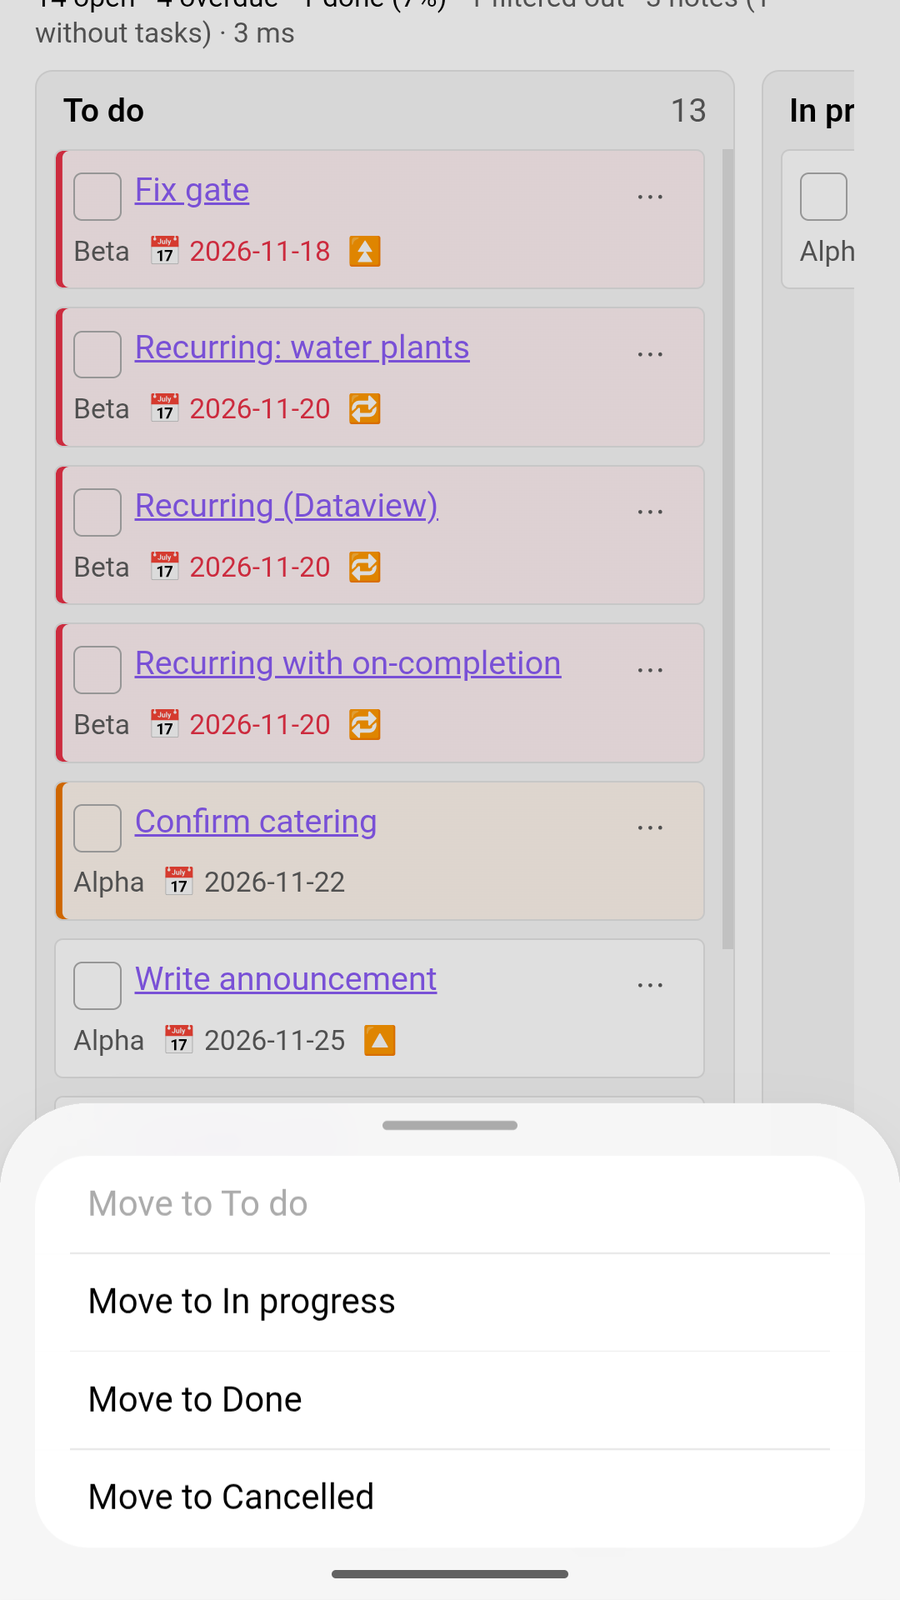
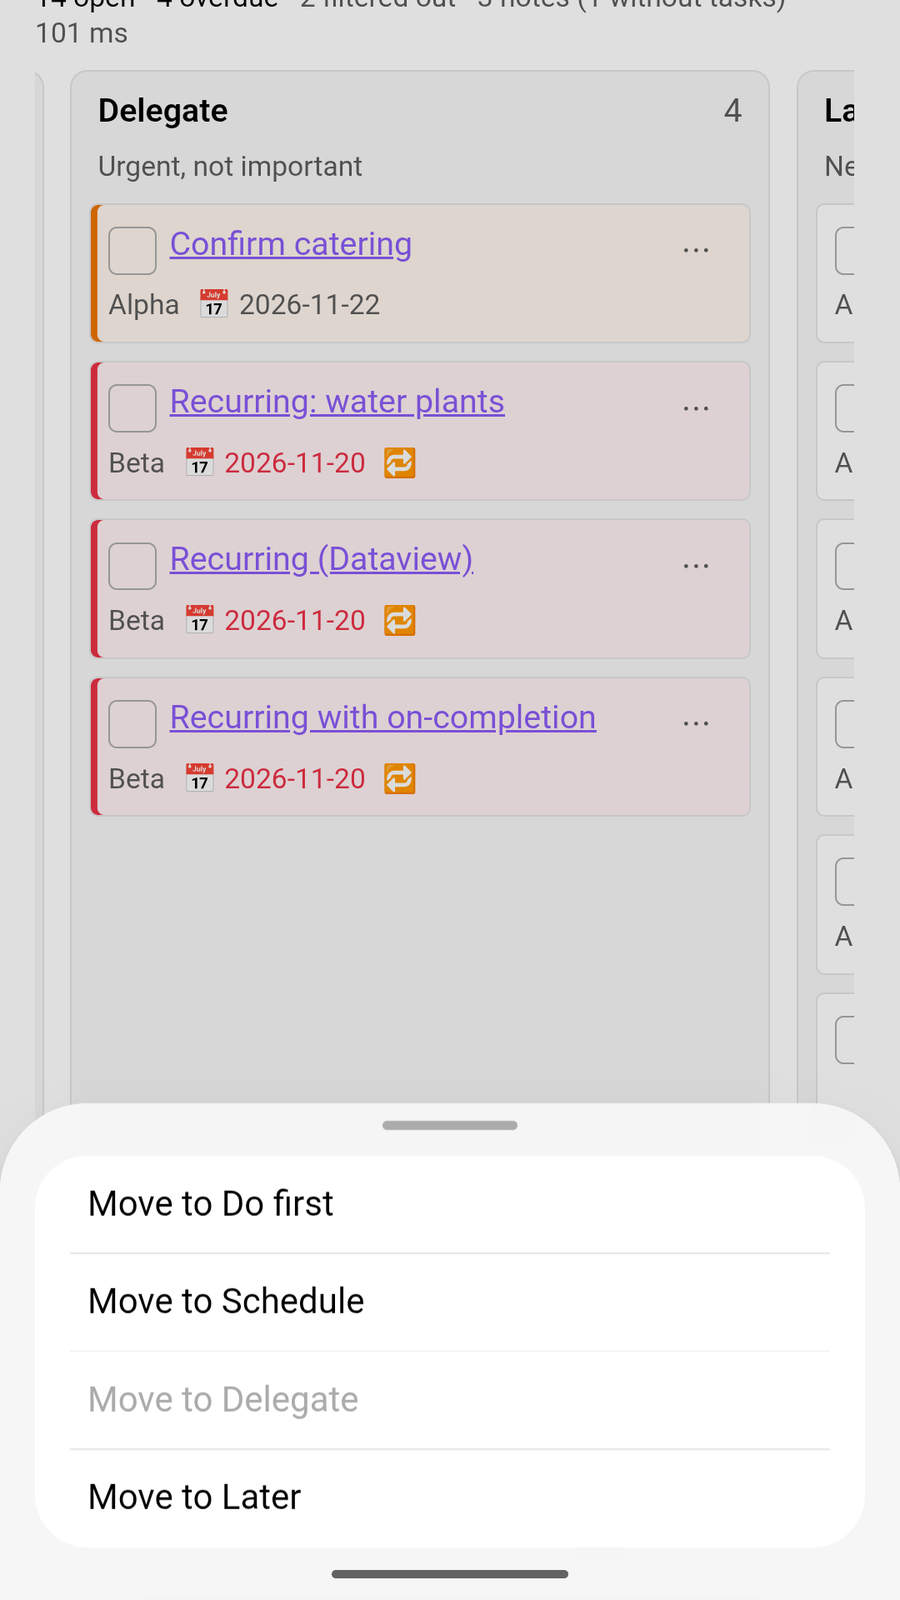
Release 1.5.0: urgent-and-important board and New task base
Version 1.5.0, the README image of the grid board, and the directory's
5 + 5 images: the grid replaces the bulk desktop image (calendar moves to
5), and the phone card-menu image is retaken on the new board.

diff --git a/README.md b/README.md
@@ -1,6 +1,6 @@
 # Tasklines
 
-**Your inline tasks as rows in Obsidian Bases.** Tasklines adds a view to Bases with one row per checkbox task in the notes a base selects, a task board with the same tasks as cards, and a task calendar. Each row carries its note's properties as columns. Filter, sort and group by task or note fields, then tick, edit and add tasks without leaving the view. Your notes stay in the formats you already use: Tasks plugin emoji or Dataview fields.
+**Your inline tasks as rows in Obsidian Bases.** Tasklines adds a view to Bases with one row per checkbox task in the notes a base selects, a task board with the same tasks as cards (by status, priority, due date, or as an urgent-and-important matrix), and a task calendar. Each row carries its note's properties as columns. Filter, sort and group by task or note fields, then tick, edit and add tasks without leaving the view. Your notes stay in the formats you already use: Tasks plugin emoji or Dataview fields.
 
 ![Tasks from several notes in a Tasklines view, grouped by area and then by section, with overdue tasks tinted red and the notes' properties as columns](docs/screenshots/overview.png)
 
@@ -83,6 +83,9 @@ Add a view with the **Task board** layout to see the same tasks as cards in colu
     - Into an urgent box, the due date becomes today, even if it was later. Out of one, the due date is removed. A recurring task keeps its date: moving it out is refused, so give it a later date in the list or the calendar instead.
     - Into an important box, the priority becomes high. Out of one, the priority is removed.
     - A move that would change both (from Later straight to Do first, say) is refused with a notice naming the boxes to go through, so every move stays one edit you can undo. To move a finished task, reopen it first.
+
+    ![The urgent-and-important board as a 2×2 grid: Do first and Schedule on top, Delegate and Later below, with Urgent and Not urgent across the top and Important and Not important down the side; overdue tasks tinted red](docs/screenshots/urgent.png)
+
     - **Layout:** with room for it (a board at least about 600 px wide and 400 px tall, as in most desktop panes and on tablets), the boxes form a 2×2 grid: urgent on the left, important on top, with the axes labelled. All four stay in view, and a full box scrolls on its own. Finished, when shown, runs along the bottom. In less room (phones, a phone held sideways, a narrow or short pane) they're swipeable columns like the other boards.
 - **Undo:** after a move, the notice has an **Undo** button that puts the line back exactly as it was (unless it has changed since). Completing a recurring task can't be undone this way, because it adds the next occurrence.
 - Custom statuses keep their place: a `[!]` task stays in To do. They aren't a drop target of their own, so moving it to another status replaces the custom status.

diff --git a/RELEASE.md b/RELEASE.md
@@ -110,15 +110,16 @@ Status as of 0.9.9 (checked against the docs on 2026-11-20): ✅ done · ⬜ nee
 | `mobile.png` | The view on a phone (Android emulator), with taller rows and the folded toolbar |
 | `board.png` | `Task board.base` → **By status**, **Color** Due date: the four status columns, overdue cards red and today's orange |
 | `calendar.png` | `Task calendar.base` → **Calendar** (month on desktop), **Color** Priority, with the No date tray |
+| `urgent.png` | `Task board.base` → **Urgent and important** with **Color** Due date (set it in the view's menu, then put the file back): the 2×2 grid with its axes |
 | `bulk.png` | The `overview.png` view in select mode: priority High set on Retro and Task inside a callout (the notice with Undo shows), then the "work" group and Fix gate and Dataview style selected. Undo the change afterwards |
 
 `docs/listing/` holds the community directory's listing images. **The plugin's page takes at most 5 desktop and 5 phone images**, so the folder holds exactly those ten, numbered in upload order; when a release needs a new one, choose which to drop rather than adding a sixth.
 
-- **Desktop**, 1200×800: dark theme, sidebar collapsed, window resized to 1200×800 (the board at 92% zoom so its four columns fit). `desktop-1-overview` and `desktop-5-bulk` are the `overview.png` and `bulk.png` scenes; `desktop-2-editing`, `desktop-3-board` and `desktop-4-calendar` are the `editing.png`, `board.png` and `calendar.png` scenes.
+- **Desktop**, 1200×800: dark theme, sidebar collapsed, window resized to 1200×800 (the board at 92% zoom so its four columns fit). `desktop-1-overview`, `desktop-2-editing`, `desktop-3-board`, `desktop-4-urgent` and `desktop-5-calendar` are the `overview.png`, `editing.png`, `board.png`, `urgent.png` and `calendar.png` scenes. (1.5.0 dropped `desktop-5-bulk`: select mode is on the phone set.) The window can be resized from the developer tools with `require('@electron/remote').getCurrentWindow().setSize(1200, 800)`.
 - **Phone**, 900×1600: the top 1080×1920 of an Android emulator screenshot (light theme), scaled; `mobile-3-card-menu` uses the bottom 1920 instead, to show the menu sheet.
   - `mobile-1-list`: **All tasks by section** set to To do and In progress, grouped by due bucket then note, **Color** Note property `owner`.
   - `mobile-2-board`: **By status**, **Color** Due date.
-  - `mobile-3-card-menu`: the same board with a card's **⋯** menu open.
+  - `mobile-3-card-menu`: **Urgent and important**, **Color** Due date, swiped to Delegate with Confirm catering's **⋯** menu open (Move to Do first, Schedule, Later).
   - `mobile-4-agenda`: **Agenda**, **Color** Priority.
   - `mobile-5-select`: **Calendar** (the agenda on phones), **Color** Priority, in select mode with Overdue selected but one task and Today selected.
 

diff --git a/VERIFY.md b/VERIFY.md
@@ -603,3 +603,12 @@ Checked on 2026-11-22 on hypatia (Windows 11, Obsidian 1.15.1, over SSH and the 
   - Windows' `Expand-Archive` misreads UTF-8 names in a zip made on the Mac (`Café` arrived as `CafÃ©`), so unusual names have to be created on Windows.
   - Names from the Mac use the decomposed form of accents, so look files up by normalized path.
 - [x] Afterwards Obsidian was stopped, `obsidian.json` restored, and the test folder removed.
+
+## Release 1.5.0
+
+Batch: the urgent-and-important board (#63), its 2×2 grid (#64, #65) and **New task base** (#63). The full pass ran on `main` at f991bff plus this release commit (version, docs and images only):
+
+- [x] Build, lint (no warnings), 787 tests, and fuzz at 200,000 cases (seed 7).
+- [x] Desktop: the board, the grid, New task base, embeds, a popout window, five themes, and a regression pass over every view (see the sections above).
+- [x] Android, iPhone and Windows: see the sections above.
+- [x] Images: `docs/screenshots/urgent.png` is new. In the directory set, `desktop-4-urgent` replaces `desktop-5-bulk` (Calendar moves to 5), and `mobile-3-card-menu` was retaken on the new board. Afterwards the Mac window, theme and sidebar were put back, the Color setting used for the images was reverted, and the emulator's vault matches `test-vault/`.

diff --git a/docs/screenshots/README.md b/docs/screenshots/README.md
@@ -1,3 +1,3 @@
 # Screenshots
 
-Used by the README. Taken in `test-vault/` with the default theme in light mode (desktop window about 1630×950, saved at 1600 px wide), and on the Android emulator for `mobile.png`. `board.png` and `calendar.png` show the task board and the task calendar, and `bulk.png` select mode; several views use the **Color** option and a second grouping level, as listed in RELEASE.md. See [RELEASE.md](../../RELEASE.md#screenshots) to retake them.
+Used by the README. Taken in `test-vault/` with the default theme in light mode (desktop window about 1630×950, saved at 1600 px wide), and on the Android emulator for `mobile.png`. `board.png` and `calendar.png` show the task board and the task calendar, `urgent.png` the urgent-and-important board as a grid, and `bulk.png` select mode; several views use the **Color** option and a second grouping level, as listed in RELEASE.md. See [RELEASE.md](../../RELEASE.md#screenshots) to retake them.
